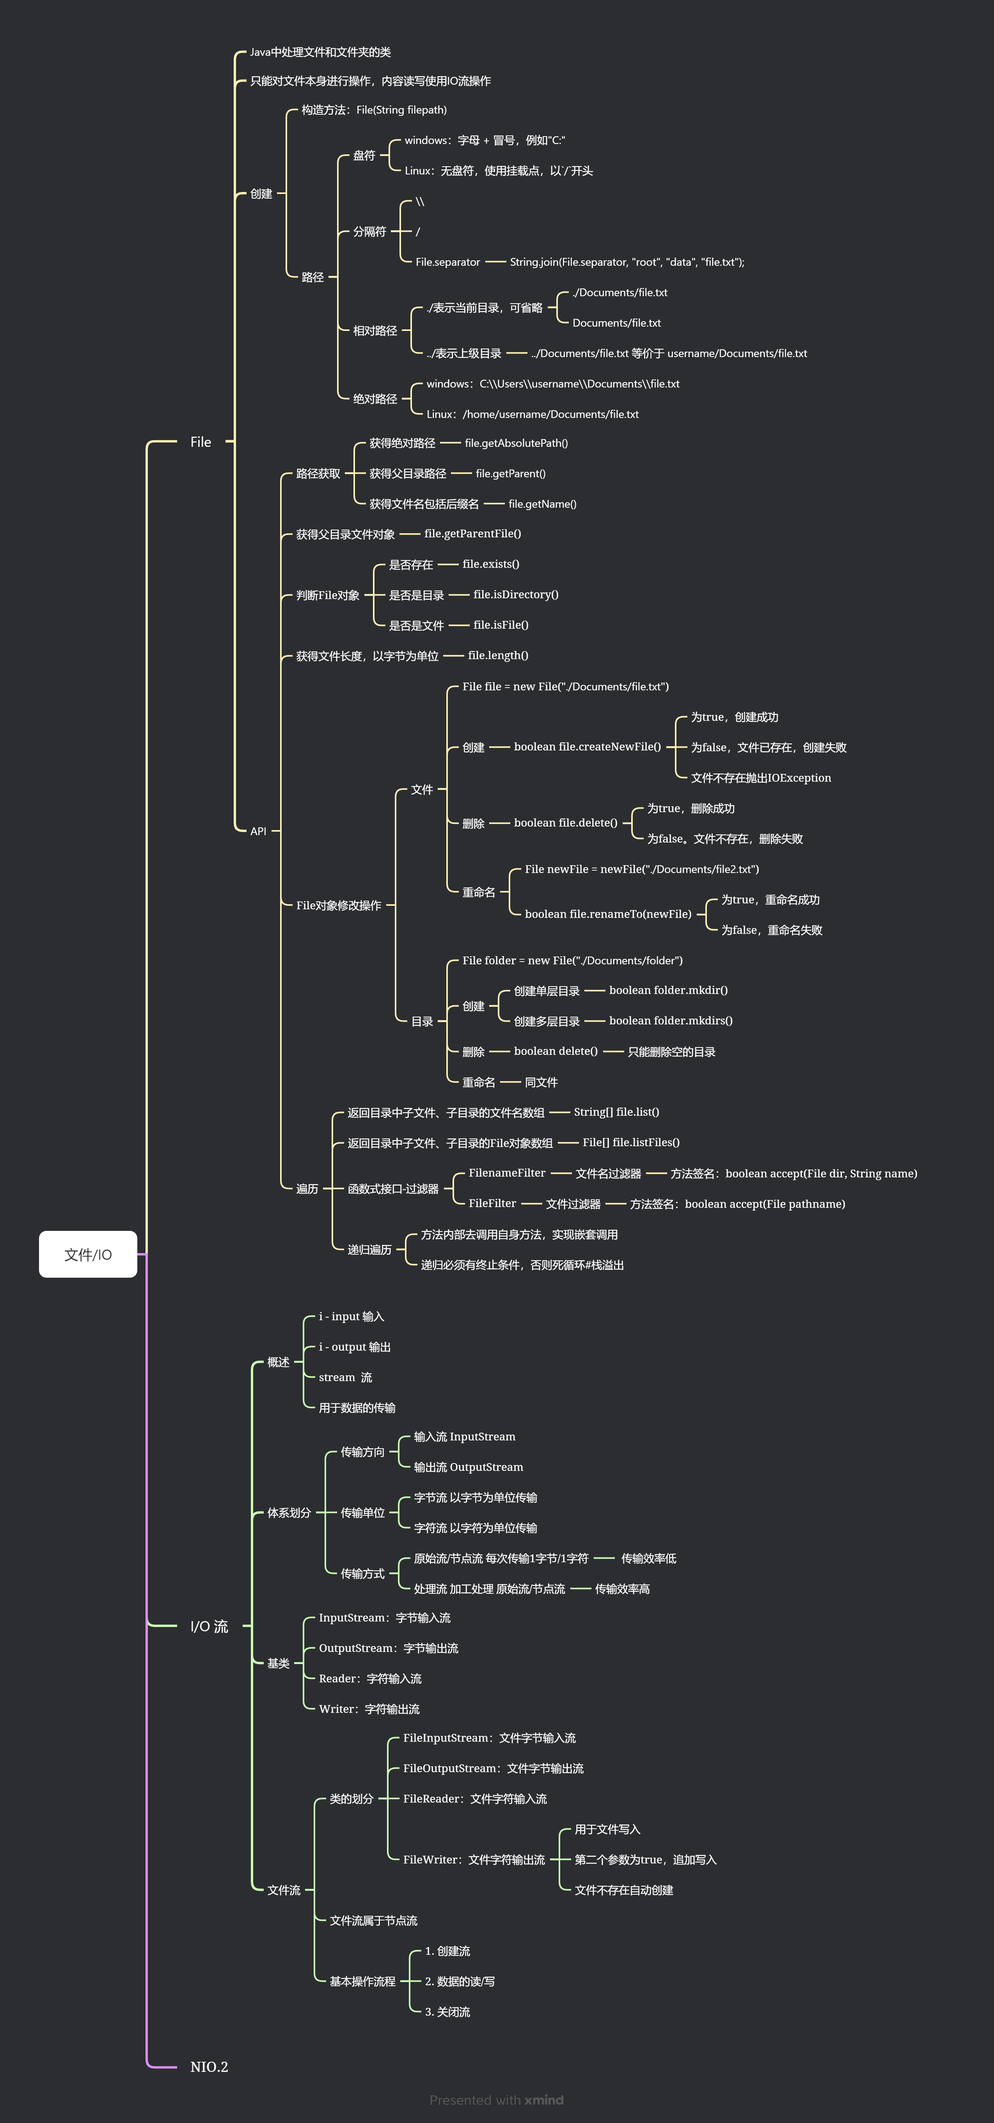
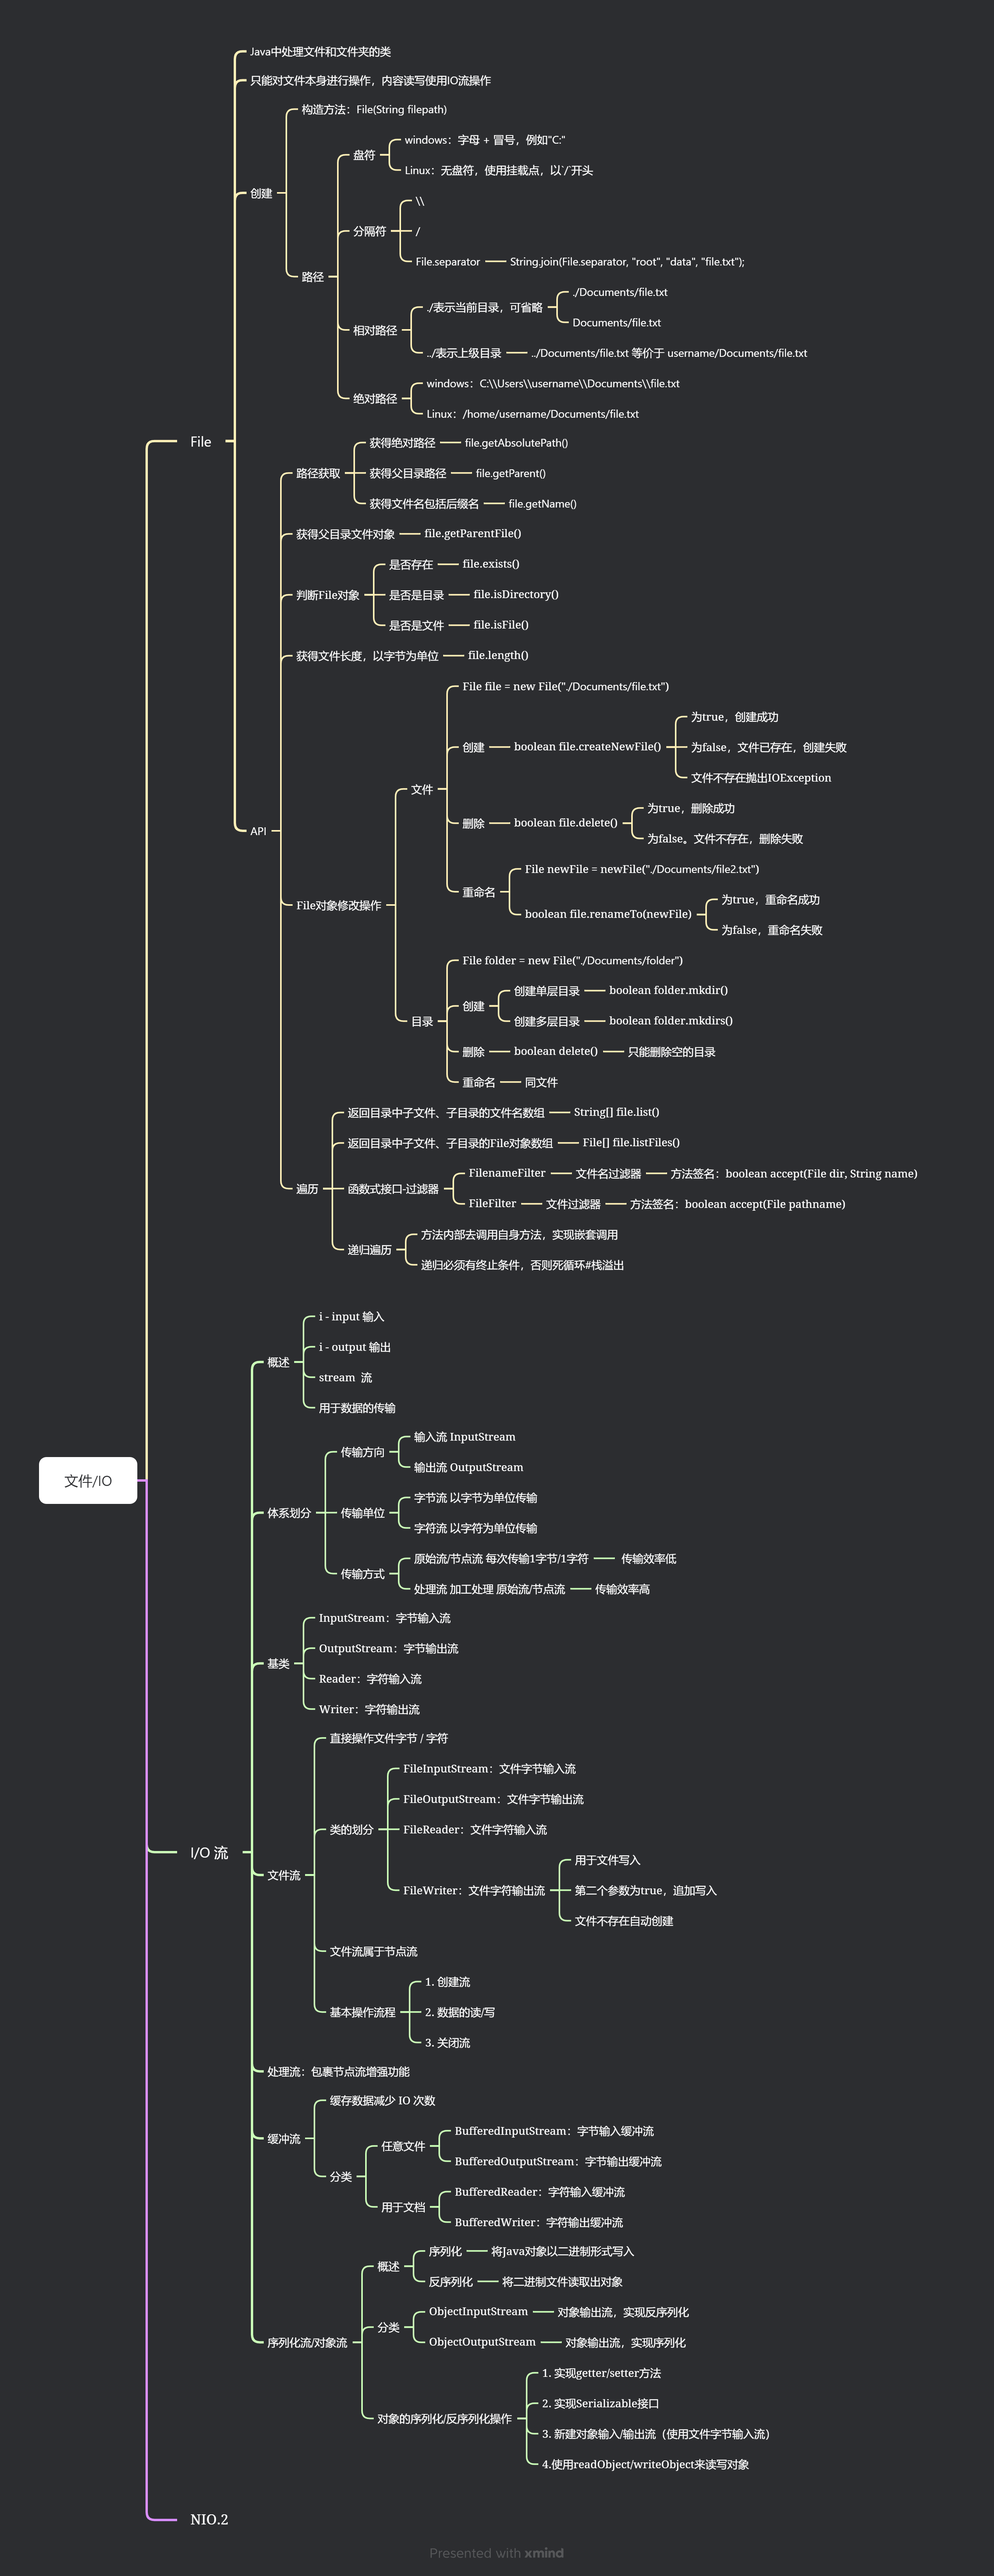
docs: 增加文件IO中关于缓冲流，序列化流相关知识

diff --git a/public/markdown-files/JavaFundamentals/12-文件IO.md b/public/markdown-files/JavaFundamentals/12-文件IO.md
@@ -485,15 +485,192 @@ public class FileStreamDemo {
 }
 ```
 
-#### 7. NIO.2 (New I/O 2)
+#### 7. 处理流
 
-##### 7.1 NIO.2核心类
+##### 7.1 处理流概述
+
+**处理流**是包裹节点流来增强功能的流，它们不直接连接到数据源，而是对其他流进行包装以提供额外的功能。
+
+**特点**：
+- 包裹节点流增强功能
+- 提高传输效率
+- 提供更丰富的操作方法
+- 可以层层包装
+
+#### 8. 缓冲流
+
+##### 8.1 缓冲流概述
+
+缓冲流通过缓存数据来减少IO次数，从而提高传输效率。
+
+**分类**：
+- **任意文件**：
+  - `BufferedInputStream`：字节输入缓冲流
+  - `BufferedOutputStream`：字节输出缓冲流
+- **用于文档**：
+  - `BufferedReader`：字符输入缓冲流
+  - `BufferedWriter`：字符输出缓冲流
+
+##### 8.2 字节缓冲流
+
+```java
+// 基本语法
+BufferedInputStream bis = new BufferedInputStream(new FileInputStream("file.txt"));
+BufferedOutputStream bos = new BufferedOutputStream(new FileOutputStream("output.txt"));
+
+// 文件复制示例
+try (BufferedInputStream bis = new BufferedInputStream(new FileInputStream("source.txt"));
+     BufferedOutputStream bos = new BufferedOutputStream(new FileOutputStream("target.txt"))) {
+    
+    byte[] buffer = new byte[8192];
+    int bytesRead;
+    while ((bytesRead = bis.read(buffer)) != -1) {
+        bos.write(buffer, 0, bytesRead);
+    }
+} catch (IOException e) {
+    e.printStackTrace();
+}
+```
+
+##### 8.3 字符缓冲流
+
+```java
+// 基本语法
+BufferedReader br = new BufferedReader(new FileReader("file.txt"));
+BufferedWriter bw = new BufferedWriter(new FileWriter("output.txt"));
+
+// 写入文本
+try (BufferedWriter bw = new BufferedWriter(new FileWriter("test.txt"))) {
+    bw.write("第一行文本");
+    bw.newLine(); // 写入换行符
+    bw.write("第二行文本");
+} catch (IOException e) {
+    e.printStackTrace();
+}
+
+// 按行读取
+try (BufferedReader br = new BufferedReader(new FileReader("test.txt"))) {
+    String line;
+    while ((line = br.readLine()) != null) {
+        System.out.println(line);
+    }
+} catch (IOException e) {
+    e.printStackTrace();
+}
+```
+
+#### 9. 序列化流/对象流
+
+##### 9.1 序列化概述
+
+**序列化**：将Java对象以二进制形式写入文件或网络传输
+**反序列化**：将二进制文件读取出Java对象
+
+**分类**：
+- `ObjectInputStream`：对象输入流，实现反序列化
+- `ObjectOutputStream`：对象输出流，实现序列化
+
+##### 9.2 序列化要求
+
+1. **实现Serializable接口**
+2. **提供getter/setter方法**（可选，但推荐）
+3. **使用对象输入/输出流**
+4. **使用readObject/writeObject方法**
+
+##### 9.3 基本序列化示例
+
+```java
+// 可序列化的类
+class Student implements Serializable {
+    private static final long serialVersionUID = 1L;
+    private String name;
+    private int age;
+    
+    public Student(String name, int age) {
+        this.name = name;
+        this.age = age;
+    }
+    // getter/setter方法...
+}
+
+// 序列化对象
+try (ObjectOutputStream oos = new ObjectOutputStream(new FileOutputStream("student.ser"))) {
+    Student student = new Student("张三", 20);
+    oos.writeObject(student);
+} catch (IOException e) {
+    e.printStackTrace();
+}
+
+// 反序列化对象
+try (ObjectInputStream ois = new ObjectInputStream(new FileInputStream("student.ser"))) {
+    Student student = (Student) ois.readObject();
+    System.out.println(student);
+} catch (IOException | ClassNotFoundException e) {
+    e.printStackTrace();
+}
+```
+
+##### 9.4 序列化集合对象
+
+```java
+// 序列化集合
+List<Student> students = Arrays.asList(
+    new Student("张三", 20),
+    new Student("李四", 21)
+);
+
+try (ObjectOutputStream oos = new ObjectOutputStream(new FileOutputStream("students.ser"))) {
+    oos.writeObject(students);
+} catch (IOException e) {
+    e.printStackTrace();
+}
+
+// 反序列化集合
+try (ObjectInputStream ois = new ObjectInputStream(new FileInputStream("students.ser"))) {
+    List<Student> students = (List<Student>) ois.readObject();
+    students.forEach(System.out::println);
+} catch (IOException | ClassNotFoundException e) {
+    e.printStackTrace();
+}
+```
+
+##### 9.5 序列化注意事项
+
+**关键字段说明**：
+- `transient`：标记的字段不会被序列化
+- `static`：静态字段不会被序列化
+- `serialVersionUID`：版本控制，确保兼容性
+
+```java
+class Person implements Serializable {
+    private static final long serialVersionUID = 1L; // 版本控制
+    
+    private String name;
+    private transient String password; // 不会被序列化
+    private static String company = "公司"; // 不会被序列化
+    
+    // 自定义序列化方法（可选）
+    private void writeObject(ObjectOutputStream oos) throws IOException {
+        oos.defaultWriteObject(); // 默认序列化
+        // 自定义逻辑...
+    }
+    
+    private void readObject(ObjectInputStream ois) throws IOException, ClassNotFoundException {
+        ois.defaultReadObject(); // 默认反序列化
+        // 自定义逻辑...
+    }
+}
+```
+
+#### 10. NIO.2 (New I/O 2)
+
+##### 10.1 NIO.2核心类
 
 - **Path（接口）**：表示文件系统中的路径
 - **Paths（工具类）**：用于获取Path对象
 - **Files（终极工具类）**：提供丰富的文件操作方法
 
-##### 7.2 基础语法与常用操作
+##### 10.2 基础语法与常用操作
 
 ```java
 import java.nio.file.*;
@@ -559,9 +736,9 @@ public class NIODemo {
 }
 ```
 
-##### 7.3 高级特性
+##### 10.3 高级特性
 
-###### 7.3.1 Files.walk() - 现代化的目录遍历
+###### 10.3.1 Files.walk() - 现代化的目录遍历
 
 `Files.walk()` 是NIO.2提供的现代化目录遍历方法，它返回一个Stream流，可以代替传统的递归遍历。
 
@@ -661,7 +838,7 @@ public static void modernWalk(Path startPath) throws IOException {
 }
 ```
 
-###### 7.3.2 遍历目录树（FileVisitor）- 高级控制
+###### 10.3.2 遍历目录树（FileVisitor）- 高级控制
 
 当需要更精细的控制时，可以使用 `FileVisitor` 接口：
 
@@ -721,7 +898,7 @@ public class FileVisitorDemo {
 - `SKIP_SIBLINGS`：跳过当前目录的兄弟节点
 - `TERMINATE`：终止整个遍历过程
 
-###### 7.3.3 目录监控（WatchService）
+###### 10.3.3 目录监控（WatchService）
 
 `WatchService` 可以监控目录的变化，实现文件系统事件的实时响应：
 
@@ -820,7 +997,7 @@ public class NonBlockingWatchDemo {
 }
 ```
 
-###### 7.3.4 文件属性视图
+###### 10.3.4 文件属性视图
 
 ```java
 import java.nio.file.*;
@@ -847,7 +1024,7 @@ public class FileAttributesDemo {
 }
 ```
 
-###### 7.3.5 异步文件通道（AsynchronousFileChannel）
+###### 10.3.5 异步文件通道（AsynchronousFileChannel）
 
 异步文件通道允许非阻塞的文件I/O操作：
 
@@ -982,7 +1159,7 @@ public class AsyncFileChannelDemo {
 }
 ```
 
-###### 7.3.6 文件通配符匹配（PathMatcher & Glob）
+###### 10.3.6 文件通配符匹配（PathMatcher & Glob）
 
 ```java
 import java.nio.file.*;
@@ -1115,7 +1292,7 @@ public class FileSearchUtils {
 }
 ```
 
-##### 7.4 工具方法
+##### 10.4 工具方法
 
 ```java
 import java.nio.file.*;
